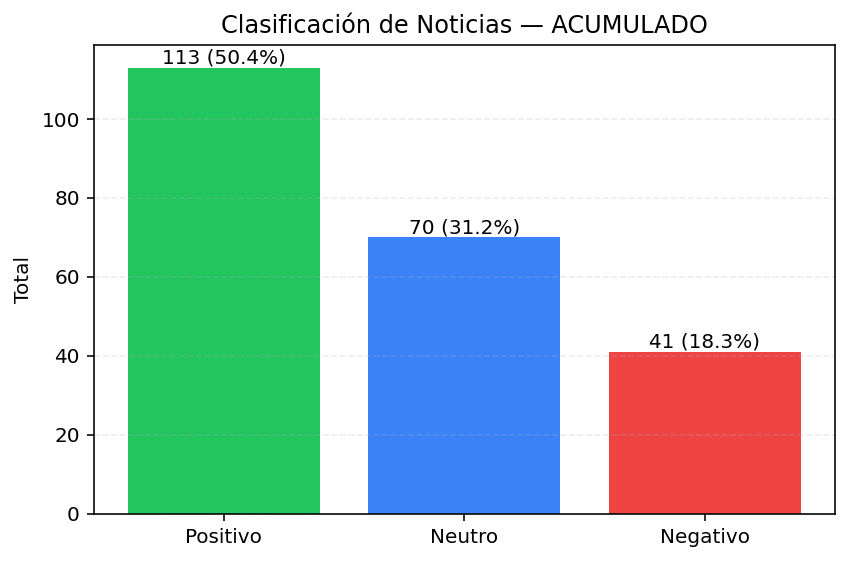
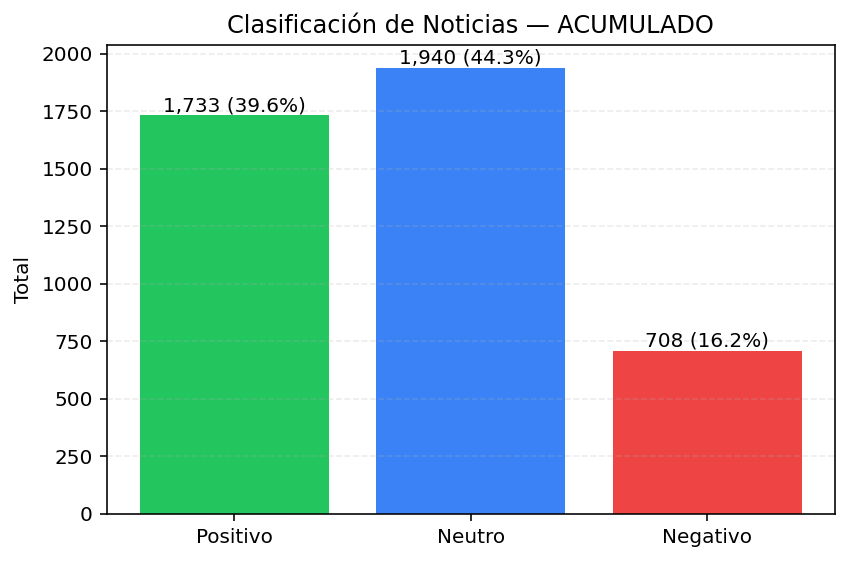
fix graficas

diff --git a/director.py b/director.py
@@ -39,8 +39,12 @@ class EmpresasDirectory:
             
             if self._graficas:
                 #Logger.info(f"Generando gráficos para {ticker}...")
-                positivo, neutro, negativo = self._helper_get_sentimientos(empresa_all_info)
-                graficas(positivo, negativo, neutro, ticker)
+                
+                positivo_h, neutro_h, negativo_h = self._helper_get_sentimientos(empresa_all_info)
+                positivo += positivo_h
+                negativo += negativo_h
+                neutro += neutro_h
+                graficas(positivo_h, negativo_h, neutro_h, ticker)
         # Graficos acumulados
         if self._graficas:
             #Logger.info("Generando gráficos acumulados...")
